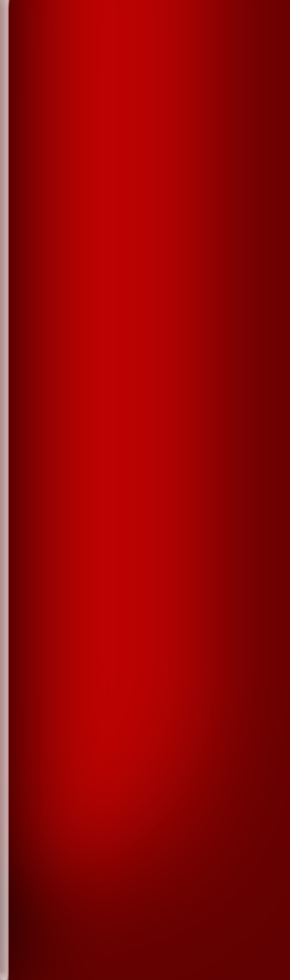
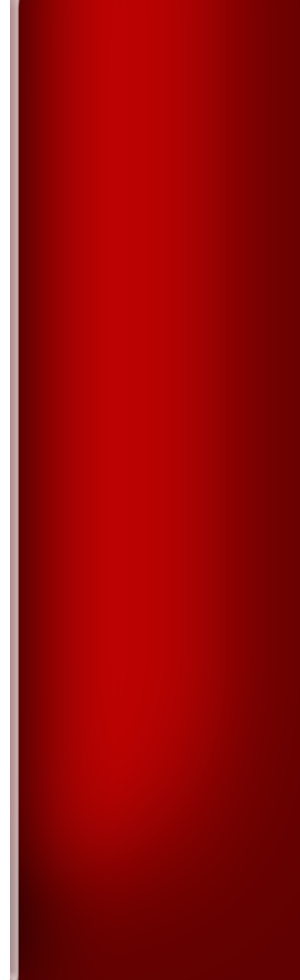
Set the sideMenu et lowerbar Background

Changed region(s): [[0.0, 0.0, 0.0931, 1.0]]

diff --git a/Qt/GuessWho/debug/moc_MainWindow.cpp b/Qt/GuessWho/debug/moc_MainWindow.cpp
@@ -21,8 +21,8 @@ QT_BEGIN_MOC_NAMESPACE
 QT_WARNING_PUSH
 QT_WARNING_DISABLE_DEPRECATED
 struct qt_meta_stringdata_MainWindow_t {
-    QByteArrayData data[11];
-    char stringdata0[138];
+    QByteArrayData data[12];
+    char stringdata0[157];
 };
 #define QT_MOC_LITERAL(idx, ofs, len) \
     Q_STATIC_BYTE_ARRAY_DATA_HEADER_INITIALIZER_WITH_OFFSET(len, \
@@ -36,16 +36,18 @@ QT_MOC_LITERAL(1, 11, 16), // "escapeKeyPressed"
 QT_MOC_LITERAL(2, 28, 0), // ""
 QT_MOC_LITERAL(3, 29, 8), // "openMenu"
 QT_MOC_LITERAL(4, 38, 10), // "menuWindow"
-QT_MOC_LITERAL(5, 49, 15), // "onePlayerWindow"
-QT_MOC_LITERAL(6, 65, 16), // "twoPlayersWindow"
-QT_MOC_LITERAL(7, 82, 13), // "optionsWindow"
-QT_MOC_LITERAL(8, 96, 10), // "gameWindow"
-QT_MOC_LITERAL(9, 107, 10), // "showDialog"
-QT_MOC_LITERAL(10, 118, 19) // "showCharacterWindow"
+QT_MOC_LITERAL(5, 49, 18), // "menuWindowFromGame"
+QT_MOC_LITERAL(6, 68, 15), // "onePlayerWindow"
+QT_MOC_LITERAL(7, 84, 16), // "twoPlayersWindow"
+QT_MOC_LITERAL(8, 101, 13), // "optionsWindow"
+QT_MOC_LITERAL(9, 115, 10), // "gameWindow"
+QT_MOC_LITERAL(10, 126, 10), // "showDialog"
+QT_MOC_LITERAL(11, 137, 19) // "showCharacterWindow"
 
     },
     "MainWindow\0escapeKeyPressed\0\0openMenu\0"
-    "menuWindow\0onePlayerWindow\0twoPlayersWindow\0"
+    "menuWindow\0menuWindowFromGame\0"
+    "onePlayerWindow\0twoPlayersWindow\0"
     "optionsWindow\0gameWindow\0showDialog\0"
     "showCharacterWindow"
 };
@@ -57,7 +59,7 @@ static const uint qt_meta_data_MainWindow[] = {
        7,       // revision
        0,       // classname
        0,    0, // classinfo
-       9,   14, // methods
+      10,   14, // methods
        0,    0, // properties
        0,    0, // enums/sets
        0,    0, // constructors
@@ -65,22 +67,24 @@ static const uint qt_meta_data_MainWindow[] = {
        1,       // signalCount
 
  // signals: name, argc, parameters, tag, flags
-       1,    0,   59,    2, 0x06 /* Public */,
+       1,    0,   64,    2, 0x06 /* Public */,
 
  // slots: name, argc, parameters, tag, flags
-       3,    0,   60,    2, 0x0a /* Public */,
-       4,    0,   61,    2, 0x0a /* Public */,
-       5,    0,   62,    2, 0x0a /* Public */,
-       6,    0,   63,    2, 0x0a /* Public */,
-       7,    0,   64,    2, 0x0a /* Public */,
-       8,    0,   65,    2, 0x0a /* Public */,
-       9,    0,   66,    2, 0x0a /* Public */,
-      10,    0,   67,    2, 0x0a /* Public */,
+       3,    0,   65,    2, 0x0a /* Public */,
+       4,    0,   66,    2, 0x0a /* Public */,
+       5,    0,   67,    2, 0x0a /* Public */,
+       6,    0,   68,    2, 0x0a /* Public */,
+       7,    0,   69,    2, 0x0a /* Public */,
+       8,    0,   70,    2, 0x0a /* Public */,
+       9,    0,   71,    2, 0x0a /* Public */,
+      10,    0,   72,    2, 0x0a /* Public */,
+      11,    0,   73,    2, 0x0a /* Public */,
 
  // signals: parameters
     QMetaType::Void,
 
  // slots: parameters
+    QMetaType::Void,
     QMetaType::Void,
     QMetaType::Void,
     QMetaType::Void,
@@ -102,12 +106,13 @@ void MainWindow::qt_static_metacall(QObject *_o, QMetaObject::Call _c, int _id, 
         case 0: _t->escapeKeyPressed(); break;
         case 1: _t->openMenu(); break;
         case 2: _t->menuWindow(); break;
-        case 3: _t->onePlayerWindow(); break;
-        case 4: _t->twoPlayersWindow(); break;
-        case 5: _t->optionsWindow(); break;
-        case 6: _t->gameWindow(); break;
-        case 7: _t->showDialog(); break;
-        case 8: _t->showCharacterWindow(); break;
+        case 3: _t->menuWindowFromGame(); break;
+        case 4: _t->onePlayerWindow(); break;
+        case 5: _t->twoPlayersWindow(); break;
+        case 6: _t->optionsWindow(); break;
+        case 7: _t->gameWindow(); break;
+        case 8: _t->showDialog(); break;
+        case 9: _t->showCharacterWindow(); break;
         default: ;
         }
     } else if (_c == QMetaObject::IndexOfMethod) {
@@ -148,13 +153,13 @@ int MainWindow::qt_metacall(QMetaObject::Call _c, int _id, void **_a)
     if (_id < 0)
         return _id;
     if (_c == QMetaObject::InvokeMetaMethod) {
-        if (_id < 9)
+        if (_id < 10)
             qt_static_metacall(this, _c, _id, _a);
-        _id -= 9;
+        _id -= 10;
     } else if (_c == QMetaObject::RegisterMethodArgumentMetaType) {
-        if (_id < 9)
+        if (_id < 10)
             *reinterpret_cast<int*>(_a[0]) = -1;
-        _id -= 9;
+        _id -= 10;
     }
     return _id;
 }

diff --git a/Qt/GuessWho/MainWindow.cpp b/Qt/GuessWho/MainWindow.cpp
@@ -10,6 +10,9 @@ MainWindow::MainWindow() : QMainWindow()
 	setCentralWidget(start);
 	QObject::connect(start->getButton(), SIGNAL(clicked()), this, SLOT(openMenu()));
 
+	game = new GameWindow(this);
+	menu = new MenuWindow(this);
+
 }
 
 MainWindow::~MainWindow()
@@ -20,8 +23,6 @@ MainWindow::~MainWindow()
 
 void MainWindow::openMenu()
 {
-
-	menu = new MenuWindow(this);
 	setCentralWidget(menu);
 	start->close();
 	delete start;
@@ -34,6 +35,17 @@ void MainWindow::openMenu()
 void MainWindow::menuWindow()
 {
 	menu->deleteOptionsWindow();
+	menu->startMenu();
+	QObject::connect(menu->getOnePlayerButton(), SIGNAL(clicked()), this, SLOT(onePlayerWindow()));
+	QObject::connect(menu->getTwoPlayersButton(), SIGNAL(clicked()), this, SLOT(twoPlayersWindow()));
+	QObject::connect(menu->getOptionsButton(), SIGNAL(clicked()), this, SLOT(optionsWindow()));
+	QObject::connect(menu->getQuitButton(), SIGNAL(clicked()), this, SLOT(close()));
+}
+
+void MainWindow::menuWindowFromGame()
+{
+	game->close();
+	setCentralWidget(menu);
 	menu->startMenu();
 	QObject::connect(menu->getOnePlayerButton(), SIGNAL(clicked()), this, SLOT(onePlayerWindow()));
 	QObject::connect(menu->getTwoPlayersButton(), SIGNAL(clicked()), this, SLOT(twoPlayersWindow()));
@@ -77,7 +89,6 @@ void MainWindow::showCharacterWindow()
 
 void MainWindow::gameWindow()
 {
-	game = new GameWindow(this);
 	setCentralWidget(game);
 	numberGames = menu->getNumberGames();
 

diff --git a/Qt/GuessWho/GameWindow.cpp b/Qt/GuessWho/GameWindow.cpp
@@ -2,13 +2,16 @@
 
 
 
-GameWindow::GameWindow(QWidget *parent):QWidget(parent)
+GameWindow::GameWindow(QWidget *parent) : QWidget(parent)
 {
 	//setStyleSheet("background-image: url(./Photos/header_logo.png)");
 	layout = new QGridLayout(this);
 	grid = new CharacterGrid(this, parent->height()-100, parent->width()-300);
+	grid->setStyleSheet("background: transparent;");
 	lowerBar = new LowerBar(this, parent->width(),parent->height(),grid->getCardHeight());
-	sideMenu = new SideMenu(this, parent->height());
+	lowerBar->setStyleSheet("background: transparent;");
+	sideMenu = new SideMenu(this, parent->height(), parent->width());
+	sideMenu->setStyleSheet("background: transparent;");
 	pauseMenu = new PauseMenu(this);
 	layout->addWidget(grid, 0, 0);
 	layout->addWidget(lowerBar, 1, 0);
@@ -38,6 +41,7 @@ GameWindow::GameWindow(QWidget *parent):QWidget(parent)
 	connect(pauseMenu, SIGNAL(escapeKeyPressed()), this, SLOT(togglePauseMenu()));
 	connect(pauseMenu->getQuitButton(), SIGNAL(clicked()), pauseMenu, SLOT(close()));
 	connect(pauseMenu->getQuitButton(), SIGNAL(clicked()), parent, SLOT(close()));
+	connect(pauseMenu->getCancelGameButton(), SIGNAL(clicked()), this, SLOT());
 	connect(pauseMenu->getResumeButton(), SIGNAL(clicked()), this, SLOT(togglePauseMenu()));
 
 	this->setLayout(layout);
@@ -81,4 +85,6 @@ void GameWindow::togglePauseMenu() {
 		isPaused = true;
 	}
 }
+
+
 

diff --git a/Qt/GuessWho/SideMenu.cpp b/Qt/GuessWho/SideMenu.cpp
@@ -2,25 +2,29 @@
 
 
 
-SideMenu::SideMenu(QWidget *parent, int windowHeight) :QWidget(parent)
+SideMenu::SideMenu(QWidget *parent, int windowHeight, int windowWidth) :QWidget(parent)
 {
 	image = new QLabel(this);
+	image2 = new QLabel(this);
 	characteristics = new QLabel(image);
 	layout = new QGridLayout(this);
 
-	QPixmap pix("./Photos/Green.png");
-	image->setPixmap(pix.scaled(300, windowHeight));
-	layout->addWidget(image, 0, 0, 2, 0);
+	QPixmap pix("./Photos/side_menu.png");
+	image->setPixmap(pix.scaled(300, windowHeight-100));
+	QPixmap pix_corner("./Photos/corner_frame.png");
+	image2->setPixmap(pix_corner.scaled(300, 100));
+	layout->addWidget(image, 0, 0, 6, 10);
+	layout->addWidget(image2, 6, 0,1,10);
 
 
 	
 	characteristics->setText("");
-	characteristics->setFixedSize(300, 200);
+	characteristics->setMaximumWidth(280);
 	characteristics->setAttribute(Qt::WA_TranslucentBackground);
-	characteristics->setAlignment(Qt::AlignCenter);
+	characteristics->setAlignment(Qt::AlignLeft);
 	characteristics->setStyleSheet("background:transparent; color:white");
 	characteristics->setFont(QFont("Walkway Bold", 14));
-	layout->addWidget(characteristics, 1, 0);
+	layout->addWidget(characteristics, 5, 1,2,9);
 
 	this->setFixedWidth(300);
 	layout->setContentsMargins(0, 0, 0, 0);

diff --git a/Qt/GuessWho/LowerBar.cpp b/Qt/GuessWho/LowerBar.cpp
@@ -12,8 +12,8 @@ LowerBar::LowerBar(QWidget *parent, int windowWidth, int windowHeight,int cardHe
 	boutonNormal->setStyleSheet("background: green");
 	
 	QPixmap logo("./Photos/Red.png");
-	image->setPixmap(logo.scaled(windowWidth-300, windowHeight-3*cardHeight));
-	layout->addWidget(image,0,0,6,20);
+	image->setPixmap(logo.scaled(windowWidth-300, 100));
+	layout->addWidget(image,0,0,6,20,Qt::AlignBottom);
 
 	//this->setStyleSheet("background-image: url(./Photos/Red.png)");
 	//this->setFixedHeight(100); 

diff --git a/Qt/GuessWho/SideMenu.h b/Qt/GuessWho/SideMenu.h
@@ -10,6 +10,7 @@ class SideMenu : public QWidget
 
 private:
 	QLabel * image;
+	QLabel * image2;
 	QLabel * characteristics;
 	QGridLayout * layout;
 
@@ -17,7 +18,7 @@ public slots:
 	void setTraits(std::string newTraits);
 
 public:
-	SideMenu(QWidget *parent, int windowHeight);
+	SideMenu(QWidget *parent, int windowHeight, int windowWidth);
 	~SideMenu();
 };
 

diff --git a/Qt/GuessWho/MainWindow.h b/Qt/GuessWho/MainWindow.h
@@ -23,6 +23,7 @@ class MainWindow : public QMainWindow
 	public slots:
 		void openMenu();
 		void menuWindow();
+		void menuWindowFromGame();
 		void onePlayerWindow();
 		void twoPlayersWindow();
 		void optionsWindow();

diff --git a/Qt/GuessWho/GameWindow.h b/Qt/GuessWho/GameWindow.h
@@ -8,6 +8,7 @@
 #include <vector>
 #include "PauseMenu.h"
 #include <QKeyEvent>
+#include "PauseMenu.h"
 
 class GameWindow : public QWidget
 {
